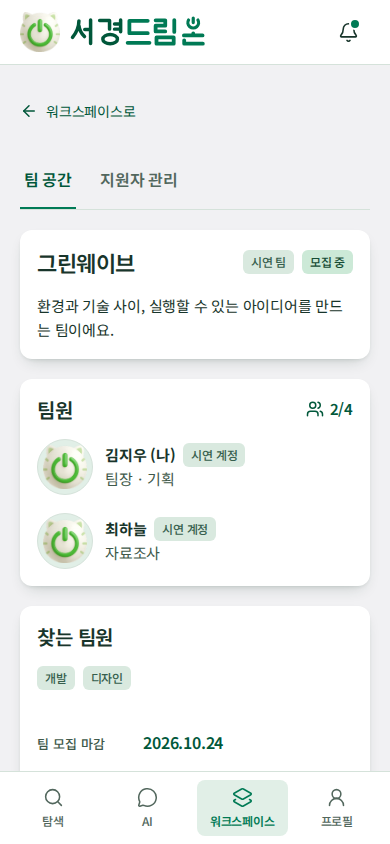
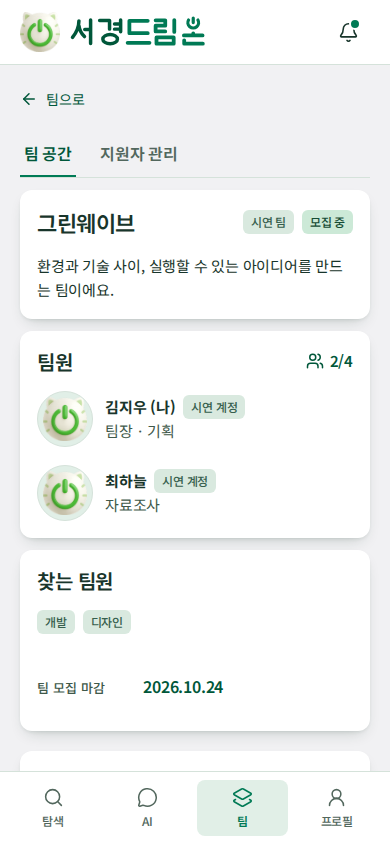
fix(frontend): 팀 메뉴 명칭과 상단 간격 정리

diff --git a/frontend/src/features/workspace/WorkspacePages.tsx b/frontend/src/features/workspace/WorkspacePages.tsx
@@ -149,7 +149,7 @@ function returnLabel(path: string) {
   if (path === '/ai') return 'AI 대화로';
   if (path === '/explore') return '탐색으로';
   if (path === applicationsPath) return '내 지원으로';
-  if (path.split('?')[0] === workspacePath) return '워크스페이스로';
+  if (path.split('?')[0] === workspacePath) return '팀으로';
   return '목록으로';
 }
 const statusOf = (error: unknown) =>
@@ -324,7 +324,7 @@ export function WorkspacePage() {
   if (!session.signedIn)
     return (
       <div className="workspace-page preview-stack">
-        <h1 className="sr-only">워크스페이스</h1>
+        <h1 className="sr-only">팀</h1>
         <LoginPrompt
           from={showApplications ? applicationsPath : workspacePath}
         />
@@ -334,7 +334,7 @@ export function WorkspacePage() {
   const teams = myTeams.data?.data ?? [];
   return (
     <div className="workspace-page preview-stack">
-      <h1 className="sr-only">워크스페이스</h1>
+      <h1 className="sr-only">팀</h1>
       <header className="workspace-heading">
         <div className="workspace-section-summary">
           <h2
@@ -356,7 +356,7 @@ export function WorkspacePage() {
             </span>
           )}
         </div>
-        <nav className="workspace-actions" aria-label="워크스페이스 작업">
+        <nav className="workspace-actions" aria-label="팀 작업">
           <Button asChild variant="outline" className="workspace-action">
             <Link
               to={applicationsPath}
@@ -1384,7 +1384,7 @@ export function ApplicantPage() {
   if (!session.signedIn)
     return (
       <div className="preview-detail preview-stack">
-        <BackLink to={workspacePath}>워크스페이스로</BackLink>
+        <BackLink to={workspacePath}>팀으로</BackLink>
         <LoginPrompt from={`${location.pathname}${location.search}`} />
       </div>
     );
@@ -1398,12 +1398,12 @@ export function ApplicantPage() {
   if (denied || !applicant.data || !team.data)
     return (
       <div className="preview-detail preview-stack">
-        <BackLink to={workspacePath}>워크스페이스로</BackLink>
+        <BackLink to={workspacePath}>팀으로</BackLink>
         <EmptyState
           title="지원서를 확인할 수 없어요"
           description="내가 관리하는 팀에 접수된 지원서만 확인할 수 있어요."
         >
-          <ActionLink to={workspacePath}>워크스페이스로 돌아가기</ActionLink>
+          <ActionLink to={workspacePath}>팀으로 돌아가기</ActionLink>
         </EmptyState>
       </div>
     );

diff --git a/frontend/src/components/layout/AppShell.tsx b/frontend/src/components/layout/AppShell.tsx
@@ -21,11 +21,11 @@ import {
 import { Link, Outlet, useLocation } from 'react-router';
 import { Notifications } from '@/features/notifications/NotificationInbox';
 
-// [출처 2] 하단 탐색 네 항목: 탐색·AI·워크스페이스·프로필
+// [출처 2] 하단 탐색 네 항목: 탐색·AI·팀·프로필
 const navItems = [
   { id: 'explore', title: '탐색', to: '/explore', icon: Search },
   { id: 'ai', title: 'AI', to: '/ai', icon: MessageCircle },
-  { id: 'workspace', title: '워크스페이스', to: '/workspace', icon: Layers2 },
+  { id: 'workspace', title: '팀', to: '/workspace', icon: Layers2 },
   { id: 'profile', title: '프로필', to: '/profile', icon: UserRound },
 ];
 
@@ -41,7 +41,7 @@ export function AppShell() {
   const teamView = teamId ? params.get('view') : null;
   const isWorkspaceTeam =
     teamId === 'new' || teamView === 'space' || teamView === 'applicants';
-  // [출처 1, 3] 팀 공간·지원자 관리·팀 만들기는 워크스페이스, AI에서 연 상세는 AI 탭으로 표시합니다.
+  // [출처 1, 3] 팀 공간·지원자 관리·팀 만들기는 팀, AI에서 연 상세는 AI 탭으로 표시합니다.
   const active =
     isAi || fromAi
       ? 'ai'
@@ -151,7 +151,7 @@ export function AppShell() {
         id="preview-main"
         ref={main}
         tabIndex={-1}
-        className={`preview-main${isAuth ? ' preview-main-auth' : ''}`}
+        className={`preview-main${isAuth ? ' preview-main-auth' : ''}${active === 'workspace' ? ' preview-main-teams' : ''}`}
       >
         <Outlet />
       </main>

diff --git a/frontend/src/styles/workspace.css b/frontend/src/styles/workspace.css
@@ -1,5 +1,17 @@
 .dreamon-preview .workspace-page {
-  gap: 28px;
+  gap: 16px;
+}
+
+.dreamon-preview .preview-main.preview-main-teams {
+  padding-top: 12px;
+}
+
+.dreamon-preview .workspace-team-space {
+  gap: 12px;
+}
+
+.dreamon-preview .workspace-team-space .workspace-team-tabs a {
+  min-height: 44px;
 }
 
 .workspace-heading {

diff --git a/docs/design/screens.md b/docs/design/screens.md
@@ -4,7 +4,7 @@
 
 화면·인터랙션은 제품 코드를 기준으로 수정하고 정책은 해당 기능 명세를 따릅니다. 아래 상태 점검 항목은 검토할 동작을 안내하며, 모든 조건의 검증·운영 배포 완료를 뜻하지 않습니다. 실제 구현·검증 범위는 [구현 현황](../development/implementation-status.md)과 관련 PR에서 확인합니다.
 
-탐색·AI·워크스페이스·내 프로필 보기의 루트 제목은 하단 탐색과 중복되므로 `h1.sr-only`로 유지하고 화면 공간은 사용하지 않습니다. 공모전·팀·지원자 상세 제목과 `프로필 수정` 제목은 표시합니다. 로그인 안내와 필요한 복귀 링크도 유지합니다.
+탐색·AI·팀·내 프로필 보기의 루트 제목은 하단 탐색과 중복되므로 `h1.sr-only`로 유지하고 화면 공간은 사용하지 않습니다. 공모전·팀·지원자 상세 제목과 `프로필 수정` 제목은 표시합니다. 로그인 안내와 필요한 복귀 링크도 유지합니다.
 
 ## 화면별 참조
 
@@ -16,7 +16,7 @@
 | 팀 탐색 `/explore?tab=teams` | [ExplorePages](../../frontend/src/features/explore/ExplorePages.tsx) | [팀 AC-01](../specs/team-recruitment.md#acceptance-criteria): 모집 역할·정원·상태·공모전별 탐색과 번호 페이지 |
 | 공개 모집글 `/teams/:teamId` | [WorkspacePages](../../frontend/src/features/workspace/WorkspacePages.tsx) | [팀 AC-03~07·15·18·26](../specs/team-recruitment.md#acceptance-criteria): 지원·필수 프로필 보완·메시지·마감·중복·취소 후 재지원 |
 | 팀 만들기 `/teams/new` | [CreateTeamPage](../../frontend/src/features/teams/CreateTeamPage.tsx), [ContestPicker](../../frontend/src/features/teams/ContestPicker.tsx) | [팀 생성·정원 정책](../specs/team-recruitment.md#acceptance-criteria): 공모전 검색 선택, 팀명 2~40자·소개 10~1,000자·역할 1~6개, 모든 팀의 공식 인원 범위. 분야는 공모전 상속, 범위 정원 기본값 없음, 정원 1명은 역할/추가 모집 생략. 준비 모임 예외 없음 |
-| 워크스페이스 `/workspace` | [WorkspacePages](../../frontend/src/features/workspace/WorkspacePages.tsx) | [팀 공간 접근](../specs/team-recruitment.md#team-workspace-access): 본인이 팀장이거나 현재 확정 팀원인 팀과 빈 상태. 내 팀·내 지원 콘텐츠 제목과 개수, 작업 아이콘을 한 줄에 배치하고 팀 카드 전체를 눌러 팀 공간 이동 |
+| 팀 `/workspace` | [WorkspacePages](../../frontend/src/features/workspace/WorkspacePages.tsx) | [팀 공간 접근](../specs/team-recruitment.md#team-workspace-access): 본인이 팀장이거나 현재 확정 팀원인 팀과 빈 상태. 내 팀·내 지원 콘텐츠 제목과 개수, 작업 아이콘을 한 줄에 배치하고 팀 카드 전체를 눌러 팀 공간 이동 |
 | 내 지원 `/workspace?view=applications` | [WorkspacePages](../../frontend/src/features/workspace/WorkspacePages.tsx) | [팀 AC-04·17~18](../specs/team-recruitment.md#acceptance-criteria): 현재 지원 상태·선발 후 취소·자리 반환·재지원, 다른 팀 선발에 따른 폐기 사유·이력 |
 | 팀 공간 `/teams/:teamId?view=space` | [WorkspacePages](../../frontend/src/features/workspace/WorkspacePages.tsx) | [팀 AC-09·13·20·25](../specs/team-recruitment.md#acceptance-criteria): 팀장·현재 팀원만 접근. 팀 메뉴 아래 팀명·소개·상태 카드, 팀원 카드의 사람 아이콘과 현재 인원/정원, 찾는 팀원의 모집 역할·마감일, 공모전 정보. 팀장 재개 확인·성공·불가 사유 |
 | 지원자 관리 `/teams/:teamId?view=applicants` | [WorkspacePages](../../frontend/src/features/workspace/WorkspacePages.tsx) | [팀 AC-05·14·16](../specs/team-recruitment.md#acceptance-criteria): 해당 팀장만 진행 중인 지원(지원 완료·검토 중)을 관리 목록에서 확인하고 검토·선발. 선발 성공 즉시 팀원 확정·같은 공모전의 다른 대기 지원 폐기. 폐기 지원은 이력에 남고 관리 목록에서 제외. 검토 대기 수 문구와 불가한 재모집 버튼·사유는 생략 |
@@ -37,8 +37,8 @@ UI에서 확인할 수 있는 흐름과 명세 전체의 구현 완료는 다릅
 | 탐색 → 상세 → 복귀 | 검색·선택한 탭·필터·정렬·페이지를 URL에 유지. 공모전 12개·팀/사람 6개. 처음 버튼과 최대 5개 번호를 한 줄로 표시. 조건 변경 시 1페이지, 잘못된 페이지·결과 감소 보정. 페이지 이동 시 결과 제목으로 포커스/스크롤 이동. 조회·집계는 [API 페이지 계약](../api/conventions.md#pagination)을 따름. 이전 스크롤 위치 복원은 별도 |
 | 탐색 필터·정렬·초기화 | 필터 아이콘 → Drawer의 분야/역할 초안 선택 → 적용 시 URL 반영. 취소·Escape·바깥 닫기 시 미적용 선택 제거, 다시 열면 적용값 복원. 팀의 모집중만 조건, 정렬만 변경했을 때도 초기화 아이콘 표시·기본 조건 복원 |
 | 탐색 → AI | 공모전·팀·사람 세 탭 모두 검색창 오른쪽 안의 AI 아이콘으로 이동. 비로그인은 로그인 안내 후 이어가기. AI 진입과 검색어 지우기는 각각 독립된 44px 조작 영역·접근성 이름 제공 |
-| 워크스페이스 → 내 지원·팀 만들기 | 내 팀·내 지원 콘텐츠 제목과 개수 옆에 작업 아이콘 배치. 목록 아이콘의 접근성 이름·title은 `내 지원`, 더하기 아이콘은 `팀 만들기`. 각각 44px 조작 영역을 유지하고 팀 만들기는 녹색 주요 행동으로 표시. 내 지원 화면에서는 해당 아이콘의 `aria-current`·녹색 선택 상태와 `내 팀으로` 복귀 링크 확인 |
-| 워크스페이스 → 팀 공간 | 모집 중은 녹색 배경, 모집 마감·정원 마감은 회색 배경의 상태 배지로 구분하고 상태 문구도 함께 유지. 카드 전체가 링크이며 접근성 이름은 팀 이름과 `팀 공간으로`를 포함. 카드 안 이동 문구는 생략하고 내 역할·확정 인원 요약과 같은 행의 우하단 화살표로 이동 가능성을 표시. 공개 모집글과 선발 이후의 명시적 `팀 공간으로` 버튼은 유지 |
+| 팀 → 내 지원·팀 만들기 | 내 팀·내 지원 콘텐츠 제목과 개수 옆에 작업 아이콘 배치. 목록 아이콘의 접근성 이름·title은 `내 지원`, 더하기 아이콘은 `팀 만들기`. 각각 44px 조작 영역을 유지하고 팀 만들기는 녹색 주요 행동으로 표시. 내 지원 화면에서는 해당 아이콘의 `aria-current`·녹색 선택 상태와 `내 팀으로` 복귀 링크 확인 |
+| 팀 → 팀 공간 | 모집 중은 녹색 배경, 모집 마감·정원 마감은 회색 배경의 상태 배지로 구분하고 상태 문구도 함께 유지. 카드 전체가 링크이며 접근성 이름은 팀 이름과 `팀 공간으로`를 포함. 카드 안 이동 문구는 생략하고 내 역할·확정 인원 요약과 같은 행의 우하단 화살표로 이동 가능성을 표시. 공개 모집글과 선발 이후의 명시적 `팀 공간으로` 버튼은 유지 |
 | 팀 만들기 → 공모전 선택 | Drawer 열기·검색·선택·취소·닫기, 결과가 많을 때 추가 표시, 팀장 포함 총인원 안내와 공식 인원 범위 오류 |
 | 프로필 수정 → 저장 | 첫 기본 정보 카드 상단에 수정 아이콘·공개 상태 스위치·미리보기 아이콘을 묶어 배치. 좁은 화면에서는 이 묶음을 다음 줄로 배치하며 세 조작은 나란히 유지. 수정 아이콘으로 편집 진입. 접근성 이름·title은 `프로필 수정`, 조작 영역은 44px이며 수정 화면 제목은 유지. 캐릭터 팝업 선택·취소·프로필 저장, 기본 스콘, 공개 결과·팀 공간에서 같은 이미지 표시, 학사 상위 선택 변경, 경험 미입력/경험 없음 구분, 기본 비공개, URL 수정·삭제가 전체 공개 상태를 바꾸지 않는지 확인, 취소 시 미저장 값 제거 |
 | 프로필 공개 → 미리보기 | 상단 `공개`/`비공개` 스위치의 접근성 이름은 `프로필 공개`. 양방향 전환에서 검색·전체 항목 노출과 지원 팀장 예외를 설명하는 Drawer를 열고 `공개로 전환`/`비공개로 전환` 확인 후 저장. 취소·Escape·바깥 닫기는 기존 상태 유지. 눈 아이콘의 `공개된 모습 보기`는 `/profile/public`으로 이동하며 비공개 상태도 그대로 보여줌 |
@@ -61,6 +61,8 @@ UI에서 확인할 수 있는 흐름과 명세 전체의 구현 완료는 다릅
 
 공모전 탐색 카드는 왼쪽 세로 포스터와 오른쪽 정보를 배치하는 작은 카드 변형을 사용하며, 정확한 열 너비·여백은 [제품 스타일](../../frontend/src/styles/service-ui.css)을 따릅니다. 이미지 아래에 별도 문구를 두지 않습니다. 원본 이미지를 자르지 않으며 제목이 길어지면 카드 높이를 늘립니다. 오른쪽은 제목·분야·주최자 순으로 배치하고 우하단의 팀 아이콘·숫자로 모집 상태와 관계없이 공모전에 연결된 모든 팀 수를 표시합니다. 접근성 이름에는 `연결된 팀 N개`를 포함합니다. 별도 상세보기 문구·화살표, 참가 대상·접수 마감 정보 행은 두지 않습니다. D-day는 포스터 위에 유지하고 정확한 마감일·참가 대상은 상세에서 확인합니다. 카드 전체의 클릭·키보드 이동과 녹색 hover·포커스·누름 상태를 유지합니다.
 
+상단·하단 탐색의 메뉴 이름은 `팀`이며 주소는 `/workspace`를 유지합니다. 팀 화면의 작업 묶음은 `팀 작업`, 관련 복귀 링크는 `팀으로` 또는 `팀으로 돌아가기`로 안내합니다. 팀 영역의 본문 상단 여백은 12px, 내 팀·내 지원 화면의 주요 영역 간격은 16px입니다. 팀 공간·지원자 관리의 바깥 영역 간격은 12px로 줄이고 팀 메뉴의 조작 높이는 44px을 유지합니다.
+
 팀 공간과 지원자 관리에서는 팀 메뉴 아래 카드에 팀명·소개·상태를 모으고, 상단의 내 역할·확정 인원 요약을 생략합니다. `팀원` 카드에는 이름·역할과 사람 아이콘을 곁들인 `현재 인원/정원`을 표시하며 학교 인증 여부는 생략합니다. `찾는 팀원`에는 모집 역할과 마감일만 표시하고 정원 1명 팀에서는 생략합니다. 공개 모집글의 모집 조건·정원 안내는 유지합니다.
 
 2026-11-01 목업 브라우저에서 320·390·430·1024px의 팀 공간·지원자 관리, 정원 충족 3/3, 정원 1명과 긴 소개를 확인했습니다. 아래 캡처는 이 표시 변경의 확인 자료이며 실제 API·운영 배포 검증과 구분합니다.
@@ -69,7 +71,7 @@ UI에서 확인할 수 있는 흐름과 명세 전체의 구현 완료는 다릅
 | --- | --- | --- |
 | ![팀 공간](assets/team-space-compact-390.png) | ![정원 충족](assets/team-space-full-320.png) | ![지원자 관리](assets/team-applicants-full-320.png) |
 
-키·값 정보는 공모전 상세, 팀 목록·공간, 내 프로필·공개 프로필·지원자 검토에서 같은 [정보 계층](tokens.md)을 사용합니다. 워크스페이스 팀 카드는 내 역할과 확정 인원/정원으로 요약하고, 중복되는 `팀장 포함 총 N명` 안내는 생략합니다. 요약 옆 화살표는 별도 버튼이 아니며 카드 링크의 일부입니다. 팀 만들기·모집 상세의 정원 안내와 팀장 포함 정원 계산 정책은 유지합니다.
+키·값 정보는 공모전 상세, 팀 목록·공간, 내 프로필·공개 프로필·지원자 검토에서 같은 [정보 계층](tokens.md)을 사용합니다. 내 팀 목록의 카드는 내 역할과 확정 인원/정원으로 요약하고, 중복되는 `팀장 포함 총 N명` 안내는 생략합니다. 요약 옆 화살표는 별도 버튼이 아니며 카드 링크의 일부입니다. 팀 만들기·모집 상세의 정원 안내와 팀장 포함 정원 계산 정책은 유지합니다.
 
 <a id="remaining-decisions"></a>
 

diff --git a/docs/specs/team-recruitment.md b/docs/specs/team-recruitment.md
@@ -60,7 +60,7 @@
 | 공모전 | 필수, 해당 공모전의 공식 인원·분야와 연결 |
 | 팀 소개·목표 | 필수, 10~1,000자 |
 | 모집 역할 | 목표 정원 2명 이상이면 [공통 6개 역할](profile-options.md#role-policy) 중 1~6개 필수. 정원 1명이면 생략 |
-| 목표 정원 | 팀장을 포함한 전체 인원. [공식 인원 조건](#official-capacity)에 따라 고정하거나 기본값 없이 직접 입력. 워크스페이스는 `확정 인원 / 정원`으로 표시 |
+| 목표 정원 | 팀장을 포함한 전체 인원. [공식 인원 조건](#official-capacity)에 따라 고정하거나 기본값 없이 직접 입력. 내 팀 목록은 `확정 인원 / 정원`으로 표시 |
 | 모집 마감 | 필수, 신규 접수 가능 여부 판단에 사용. [공고 마감 기준](contests.md#deadline-policy)과 같은 시각·시간대 보완을 적용하고 공고 접수 종료 이후 신규 지원을 허용하지 않음 |
 | 팀 관심 분야 | 공모전의 동등한 복수 분야를 그대로 사용. 별도 입력·편집 없음 |
 | 팀 활동 요일·시간 구간 | 팀 생성 폼에서 입력하지 않음. 개인 주당 참여 가능 시간은 [프로필 공통 정보](profile.md#fields)를 참고 |
@@ -111,9 +111,9 @@
 
 <a id="workspace-ui"></a>
 
-### 워크스페이스와 내 지원 표시
+### 팀 메뉴와 내 지원 표시
 
-워크스페이스에는 본인이 팀장이거나 현재 확정 팀원인 팀만 표시합니다. 지원 완료·검토 중이라는 이유만으로 내 팀에 포함하지 않습니다. `내 팀` 또는 `내 지원` 제목과 개수를 보여 주고, 옆에 내 지원 목록 아이콘과 팀 만들기 더하기 아이콘을 배치합니다. 아이콘은 각각 `내 지원`, `팀 만들기`라는 접근성 이름을 가지며 내 지원 화면에서는 선택 상태와 내 팀 복귀를 제공합니다. 목록이 비어 있으면 팀 탐색으로 연결합니다.
+상단·하단 탐색의 메뉴 이름은 `팀`이며 주소는 `/workspace`를 유지합니다. 팀 화면에는 본인이 팀장이거나 현재 확정 팀원인 팀만 표시합니다. 지원 완료·검토 중이라는 이유만으로 내 팀에 포함하지 않습니다. `내 팀` 또는 `내 지원` 제목과 개수를 보여 주고, 옆에 내 지원 목록 아이콘과 팀 만들기 더하기 아이콘을 배치합니다. 작업 묶음은 `팀 작업`, 아이콘은 각각 `내 지원`, `팀 만들기`라는 접근성 이름을 가지며 내 지원 화면에서는 선택 상태와 내 팀 복귀를 제공합니다. 목록이 비어 있으면 팀 탐색으로 연결합니다.
 
 내 팀 카드에는 모집 상태·팀명·공모전·내 역할·확정 인원/정원, 팀장의 경우 검토 대기 지원자 수를 표시합니다. 모집 중은 녹색 배경, 모집 마감·정원 충족은 회색 배경 배지로 구분하고 상태 문구를 함께 제공합니다. 카드 전체가 팀 공간 링크이며 우하단 화살표로 이동을 안내합니다. 카드 안의 `팀 공간으로` 문구와 반복 정원 설명은 생략하되 접근성 이름에는 팀명과 목적지를 포함합니다.
 
@@ -428,7 +428,7 @@
 - [ ] AC-10: 팀 모집·지원 화면에 실명이 표시되고 팀장·팀원의 프로필 열람 범위가 [프로필 정책](profile.md#visibility)에 맞게 적용된다. 지원 팀장은 공개 상태와 관계없이 등록된 전체 현재 프로필을 확인하고, 일반 확정 팀원은 공개 프로필만 일반 로그인 사용자와 같은 범위로 열람한다.
 - [ ] AC-11: 포트폴리오 미등록자는 팀 이용에서 차별하지 않는다. 비공개 사용자도 탐색·로그인 후 일반 AI를 이용하지만 신규 지원은 공개 전환을 확인·저장한 뒤 제출한다. 자동 공개·자동 접수하지 않는다.
 - [ ] AC-12: 지원자가 프로필 변경을 저장한 뒤 팀장이 지원자 목록·상세와 추천을 다시 조회하면 [현재 프로필 기준](profile.md#application-profile)이 적용되며, 프로필 변경 사실을 알리는 별도 알림·배지·전후 비교 안내는 제공되지 않는다.
-- [ ] AC-13: 팀 생성·목록·상세·팀 공간에서 정원은 팀장을 포함한 총인원을 뜻한다. 워크스페이스 카드에서는 반복 안내 없이 `확정 인원 / 정원`으로 요약하고, 생성 입력·모집 상세에서는 의미를 안내한다. 총 4명 팀에 팀장만 있으면 확정 인원 1명·남은 자리 3명이며, 지원 접수·검토는 이 수치를 바꾸지 않는다.
+- [ ] AC-13: 팀 생성·목록·상세·팀 공간에서 정원은 팀장을 포함한 총인원을 뜻한다. 내 팀 카드에서는 반복 안내 없이 `확정 인원 / 정원`으로 요약하고, 생성 입력·모집 상세에서는 의미를 안내한다. 총 4명 팀에 팀장만 있으면 확정 인원 1명·남은 자리 3명이며, 지원 접수·검토는 이 수치를 바꾸지 않는다.
 - [ ] AC-14: 마지막 한 자리에 대한 동시 선발은 한 명만 성공하며, 성공한 지원자만 확정 팀원에 포함되고 남은 자리는 0명이 된다. 다른 선발은 정원 부족 안내와 함께 실패하여 정원을 초과하지 않고, 이후 신규 지원도 접수되지 않는다.
 - [ ] AC-15: 다른 참가 조건을 만족하는 지원자는 모집 역할 불일치만으로 추천에서 제외되거나 지원이 차단되지 않으며, 팀장이 선발 여부를 판단한다. 모집 정보 수정·표시의 세부 검증은 TEAM-07·TEAM-08 결정 후 진행한다.
 - [ ] AC-16: 팀장·선발된 팀원 모두 같은 공모전에서 두 번째 선발·팀 생성이 차단되고, 다른 공모전의 소속은 이 제한만으로 차단되지 않는다. 같은 사용자의 동시 선발·팀 생성에서도 공모전별 확정 소속은 하나만 유지된다.
@@ -444,7 +444,7 @@
 - [ ] AC-26: 지원 메시지 없이 제출할 수 있고, 입력한 경우 최대 1,000자를 허용하며 초과하면 접수하지 않는다. 본인·지원 팀장만 메시지를 확인하고 일반 사람 탐색에는 노출하지 않는다.
 - [ ] AC-27: 팀 탐색의 검색·역할·모집 상태·공모전 조건과 페이지 번호·총 결과 수·총페이지가 동작한다. 조건·탭 변경 시 1페이지, 상세 복귀 시 조건·페이지를 유지한다. 필터 초안을 취소하면 적용하지 않고 초기화 후 현재 탭을 유지하며, 빈 결과·잘못된 페이지를 처리한다. 모집 중 표시·필터는 팀 모집 중 상태, 열린 공고·팀 기한, 잔여 정원을 모두 확인하되 개인별 지원 가능 보장으로 안내하지 않는다.
 - [ ] AC-28: 팀 생성에서 검색 가능한 팝업으로 공모전을 선택하고 주최자·분야·마감으로 동명 공고를 구분한다. 결과 없음·검색어 지우기·추가 표시·키보드 선택을 제공하며, 선택 없이 닫거나 검색해도 기존 선택은 지워지지 않는다. 생성 성공 후 해당 팀 공간으로 이동한다.
-- [ ] AC-29: 워크스페이스의 내 팀/내 지원 수, 작업 아이콘의 접근성 이름·선택 상태, 팀 카드의 역할·확정 인원·모집 배지를 확인할 수 있다. 선발·지원 취소·모집 종료는 결과를 설명하는 확인 팝업을 거치고 취소·닫기 시 상태를 변경하지 않는다.
+- [ ] AC-29: 팀 메뉴의 내 팀/내 지원 수, 작업 아이콘의 접근성 이름·선택 상태, 팀 카드의 역할·확정 인원·모집 배지를 확인할 수 있다. 선발·지원 취소·모집 종료는 결과를 설명하는 확인 팝업을 거치고 취소·닫기 시 상태를 변경하지 않는다.
 - [ ] AC-30: 팀 생성 폼은 활동 요일·시간 슬롯 입력을 제공하지 않는다. 후속 구상인 팀 공간의 구체 일정 조율을 현재 생성 절차나 MVP 제공 기능으로 안내하지 않는다.
 - [ ] AC-31: 지원받은 팀장은 등록된 주당 참여 가능 시간 구간을 모든 프로젝트 합산 자기신고 참고 총량으로 확인하고 팀별 배정·확정 일정·잔여 시간과 혼동하지 않는다. 프로필 공통값 변경 후 각 팀의 현재 지원자 검토에는 변경된 값을 표시하되 팀별 확정 일정·약속을 자동 변경하지 않는다. 미입력은 구간 선택값으로 대신 표시하지 않는다.
 

diff --git a/docs/design/tokens.md b/docs/design/tokens.md
@@ -35,7 +35,7 @@
 | 항목 | 현재 기준 |
 | --- | --- |
 | 화면 폭 | `min(100%, 480px)`, 넓은 창에서 가운데 배치 |
-| 좌우 여백·섹션 간격 | 20px |
+| 좌우 여백·기본 섹션 간격 | 20px, 팀 영역의 간격은 아래 개별 기준 적용 |
 | 모바일 카드 내부 여백 | 16px, 상황별 개별 조정은 실제 CSS 확인 |
 | 컨트롤·버튼 반경 | 8px |
 | 카드·패널 반경 | 12px |
@@ -67,7 +67,7 @@
 | 상황 | 참고 컴포넌트·원본 |
 | --- | --- |
 | 주요/보조 행동·링크 | [Button](../../frontend/src/components/ui/button.tsx), [CommonUi](../../frontend/src/components/common/CommonUi.tsx) |
-| 워크스페이스 작업 | [Button](../../frontend/src/components/ui/button.tsx)의 링크 조합과 [WorkspacePages](../../frontend/src/features/workspace/WorkspacePages.tsx). 내 지원은 `ClipboardList`, 팀 만들기는 `Plus` 아이콘 |
+| 팀 화면 작업 | [Button](../../frontend/src/components/ui/button.tsx)의 링크 조합과 [WorkspacePages](../../frontend/src/features/workspace/WorkspacePages.tsx). 내 지원은 `ClipboardList`, 팀 만들기는 `Plus` 아이콘 |
 | 입력·선택·설명·오류 | [Input](../../frontend/src/components/ui/input.tsx), [Textarea](../../frontend/src/components/ui/textarea.tsx), [NativeSelect](../../frontend/src/components/ui/native-select.tsx), [Alert](../../frontend/src/components/ui/alert.tsx) |
 | 학교 인증 상태 | [SchoolVerificationBadge](../../frontend/src/components/common/CommonUi.tsx). 미인증은 `--school-unverified: #b42318`, 인증은 `--school-verified: #1d4ed8`, 글자는 흰색. 내 프로필의 미인증 배지는 44px 버튼으로 감싸 안내 Drawer를 열고 다른 화면은 상태 배지로 표시. 현재 계정은 모두 미인증 |
 | 공개 여부 | [Switch](../../frontend/src/components/ui/switch.tsx) + [Drawer](../../frontend/src/components/ui/drawer.tsx), [ProfileVisibilityControl](../../frontend/src/features/account/AccountPages.tsx). 전체 프로필 상태 하나를 설명·확인 후 전환하며 취소·닫기는 기존 상태 유지 |
@@ -84,11 +84,13 @@
 
 ## 모바일 상호작용 확인
 
-하단 탐색은 탐색·AI·워크스페이스·프로필의 네 항목입니다. 상단 우측 알림과 하단 프로필의 역할을 구분합니다. 네 루트 화면의 중복 제목은 `h1.sr-only`로 남기고 시각적인 제목 영역은 두지 않습니다. 공모전·팀·지원자 상세와 프로필 수정 화면의 제목은 유지합니다. AI 화면은 대화·입력창·하단 영역을 함께 배치하며 [AppShell](../../frontend/src/components/layout/AppShell.tsx)의 `visualViewport` 대응을 확인합니다.
+하단 탐색은 탐색·AI·팀·프로필의 네 항목입니다. `팀` 메뉴의 주소는 `/workspace`를 유지합니다. 상단 우측 알림과 하단 프로필의 역할을 구분합니다. 네 루트 화면의 중복 제목은 `h1.sr-only`로 남기고 시각적인 제목 영역은 두지 않습니다. 공모전·팀·지원자 상세와 프로필 수정 화면의 제목은 유지합니다. AI 화면은 대화·입력창·하단 영역을 함께 배치하며 [AppShell](../../frontend/src/components/layout/AppShell.tsx)의 `visualViewport` 대응을 확인합니다.
 
 공모전·팀·사람 탐색 모두 AI 추천 진입 아이콘을 검색창 오른쪽 안에 배치합니다. AI 대화는 로그인 후 이용하며 비로그인 진입에는 로그인 안내를 표시합니다. 검색어 지우기와 AI 진입은 각각 독립된 44px 조작 영역으로 유지합니다. 필터와 초기화도 최소 44px 아이콘 버튼으로 표시하며 접근성 이름을 제공합니다. 선택한 필터는 개수와 접근성 설명으로 알리고, 공모전 정렬은 선택 목록을 유지합니다. 정렬만 바꾼 경우에도 초기화 아이콘으로 기본 조건으로 돌아갈 수 있습니다.
 
-워크스페이스는 내 팀·내 지원 콘텐츠 제목, 개수, 작업 아이콘을 한 줄로 배치합니다. 내 지원·팀 만들기 링크는 각각 44px 조작 영역과 행동 이름을 나타내는 `aria-label`·`title`을 제공하고, 팀 만들기는 녹색 주요 버튼으로 강조합니다. 내 지원 화면의 목록 아이콘은 `aria-current`와 녹색으로 현재 위치를 표시합니다. 팀 카드는 전체 링크를 유지하고 내 역할·확정 인원과 같은 행 우하단의 `ChevronRight`로 이동을 나타냅니다. 화살표는 장식으로 처리하며, 카드 링크의 접근성 이름에 팀 이름과 `팀 공간으로`를 포함합니다. 이 카드의 이동 문구만 생략하고 상세·선발 이후의 명시적 이동 버튼은 유지합니다.
+팀 화면은 내 팀·내 지원 콘텐츠 제목, 개수, 작업 아이콘을 한 줄로 배치하고 작업 묶음의 접근성 이름은 `팀 작업`으로 제공합니다. 내 지원·팀 만들기 링크는 각각 44px 조작 영역과 행동 이름을 나타내는 `aria-label`·`title`을 제공하고, 팀 만들기는 녹색 주요 버튼으로 강조합니다. 내 지원 화면의 목록 아이콘은 `aria-current`와 녹색으로 현재 위치를 표시합니다. 팀 카드는 전체 링크를 유지하고 내 역할·확정 인원과 같은 행 우하단의 `ChevronRight`로 이동을 나타냅니다. 화살표는 장식으로 처리하며, 카드 링크의 접근성 이름에 팀 이름과 `팀 공간으로`를 포함합니다. 이 카드의 이동 문구만 생략하고 상세·선발 이후의 명시적 이동 버튼은 유지합니다.
+
+팀 영역은 본문 상단 여백 12px, 내 팀·내 지원의 주요 영역 간격 16px을 적용합니다. 팀 공간·지원자 관리의 바깥 영역 간격은 12px이며, 팀 메뉴 링크의 높이는 44px입니다. 카드 내부 여백과 본문 가독성을 유지하면서 상단과 섹션 사이 공백을 줄입니다. 실제 적용은 [팀 화면 스타일](../../frontend/src/styles/workspace.css)을 따릅니다.
 
 내 프로필 보기에서는 첫 기본 정보 카드의 이름·아바타 옆에 `SquarePen` 수정 아이콘을 배치합니다. 44px 조작 영역과 `프로필 수정` 접근성 이름·title을 제공하며 공개/비공개 스위치·눈 모양 미리보기를 같은 조작 묶음에 배치합니다. 반복되는 공개 안내 행과 상시 학교 인증 설명은 표시하지 않습니다. 공개 스위치의 접근성 이름은 `프로필 공개`이며, 전체 프로필 공개·비공개를 바꾸기 전에 설명 Drawer와 확인·취소 버튼을 제공합니다. 확인 전 스위치는 기존 값을 유지하고 취소·Escape·바깥 닫기로 되돌릴 수 있습니다. 항목별·포트폴리오별 스위치는 두지 않습니다. 등록 시간·포트폴리오를 포함한 전체 항목 공개와 지원 팀장 예외는 [현재 공개·지원 정책](../specs/profile.md#visibility)을 참고합니다. AI의 `새 대화`는 입력창 왼쪽 도구 아이콘으로 배치하고 `type="button"`을 사용해 메시지 전송과 구분합니다.
 
